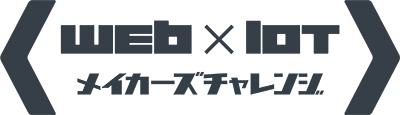
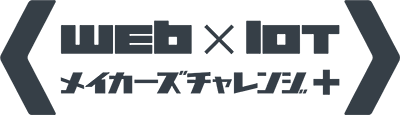
モバイル用横長ロゴを差し替え

Changed region(s): [[0.15, 0.6, 0.87, 0.8348]]

diff --git a/static/styles/2019.css b/static/styles/2019.css
@@ -530,6 +530,10 @@ section.winner .pictures .thumbnails img[aria-selected="true"] {
 }
 
 @media (-webkit-min-device-pixel-ratio: 1.5), (min-resolution: 1.5dppx), (min-resolution: 144dpi) {
+  #mobile-header h1 {
+    background-image: url(/static/images/general/wordmark-200@2x.png);
+  }
+
   #menu h1 {
     background-image: url(/static/images/2019/template/logo-320@2x.png);
   }
